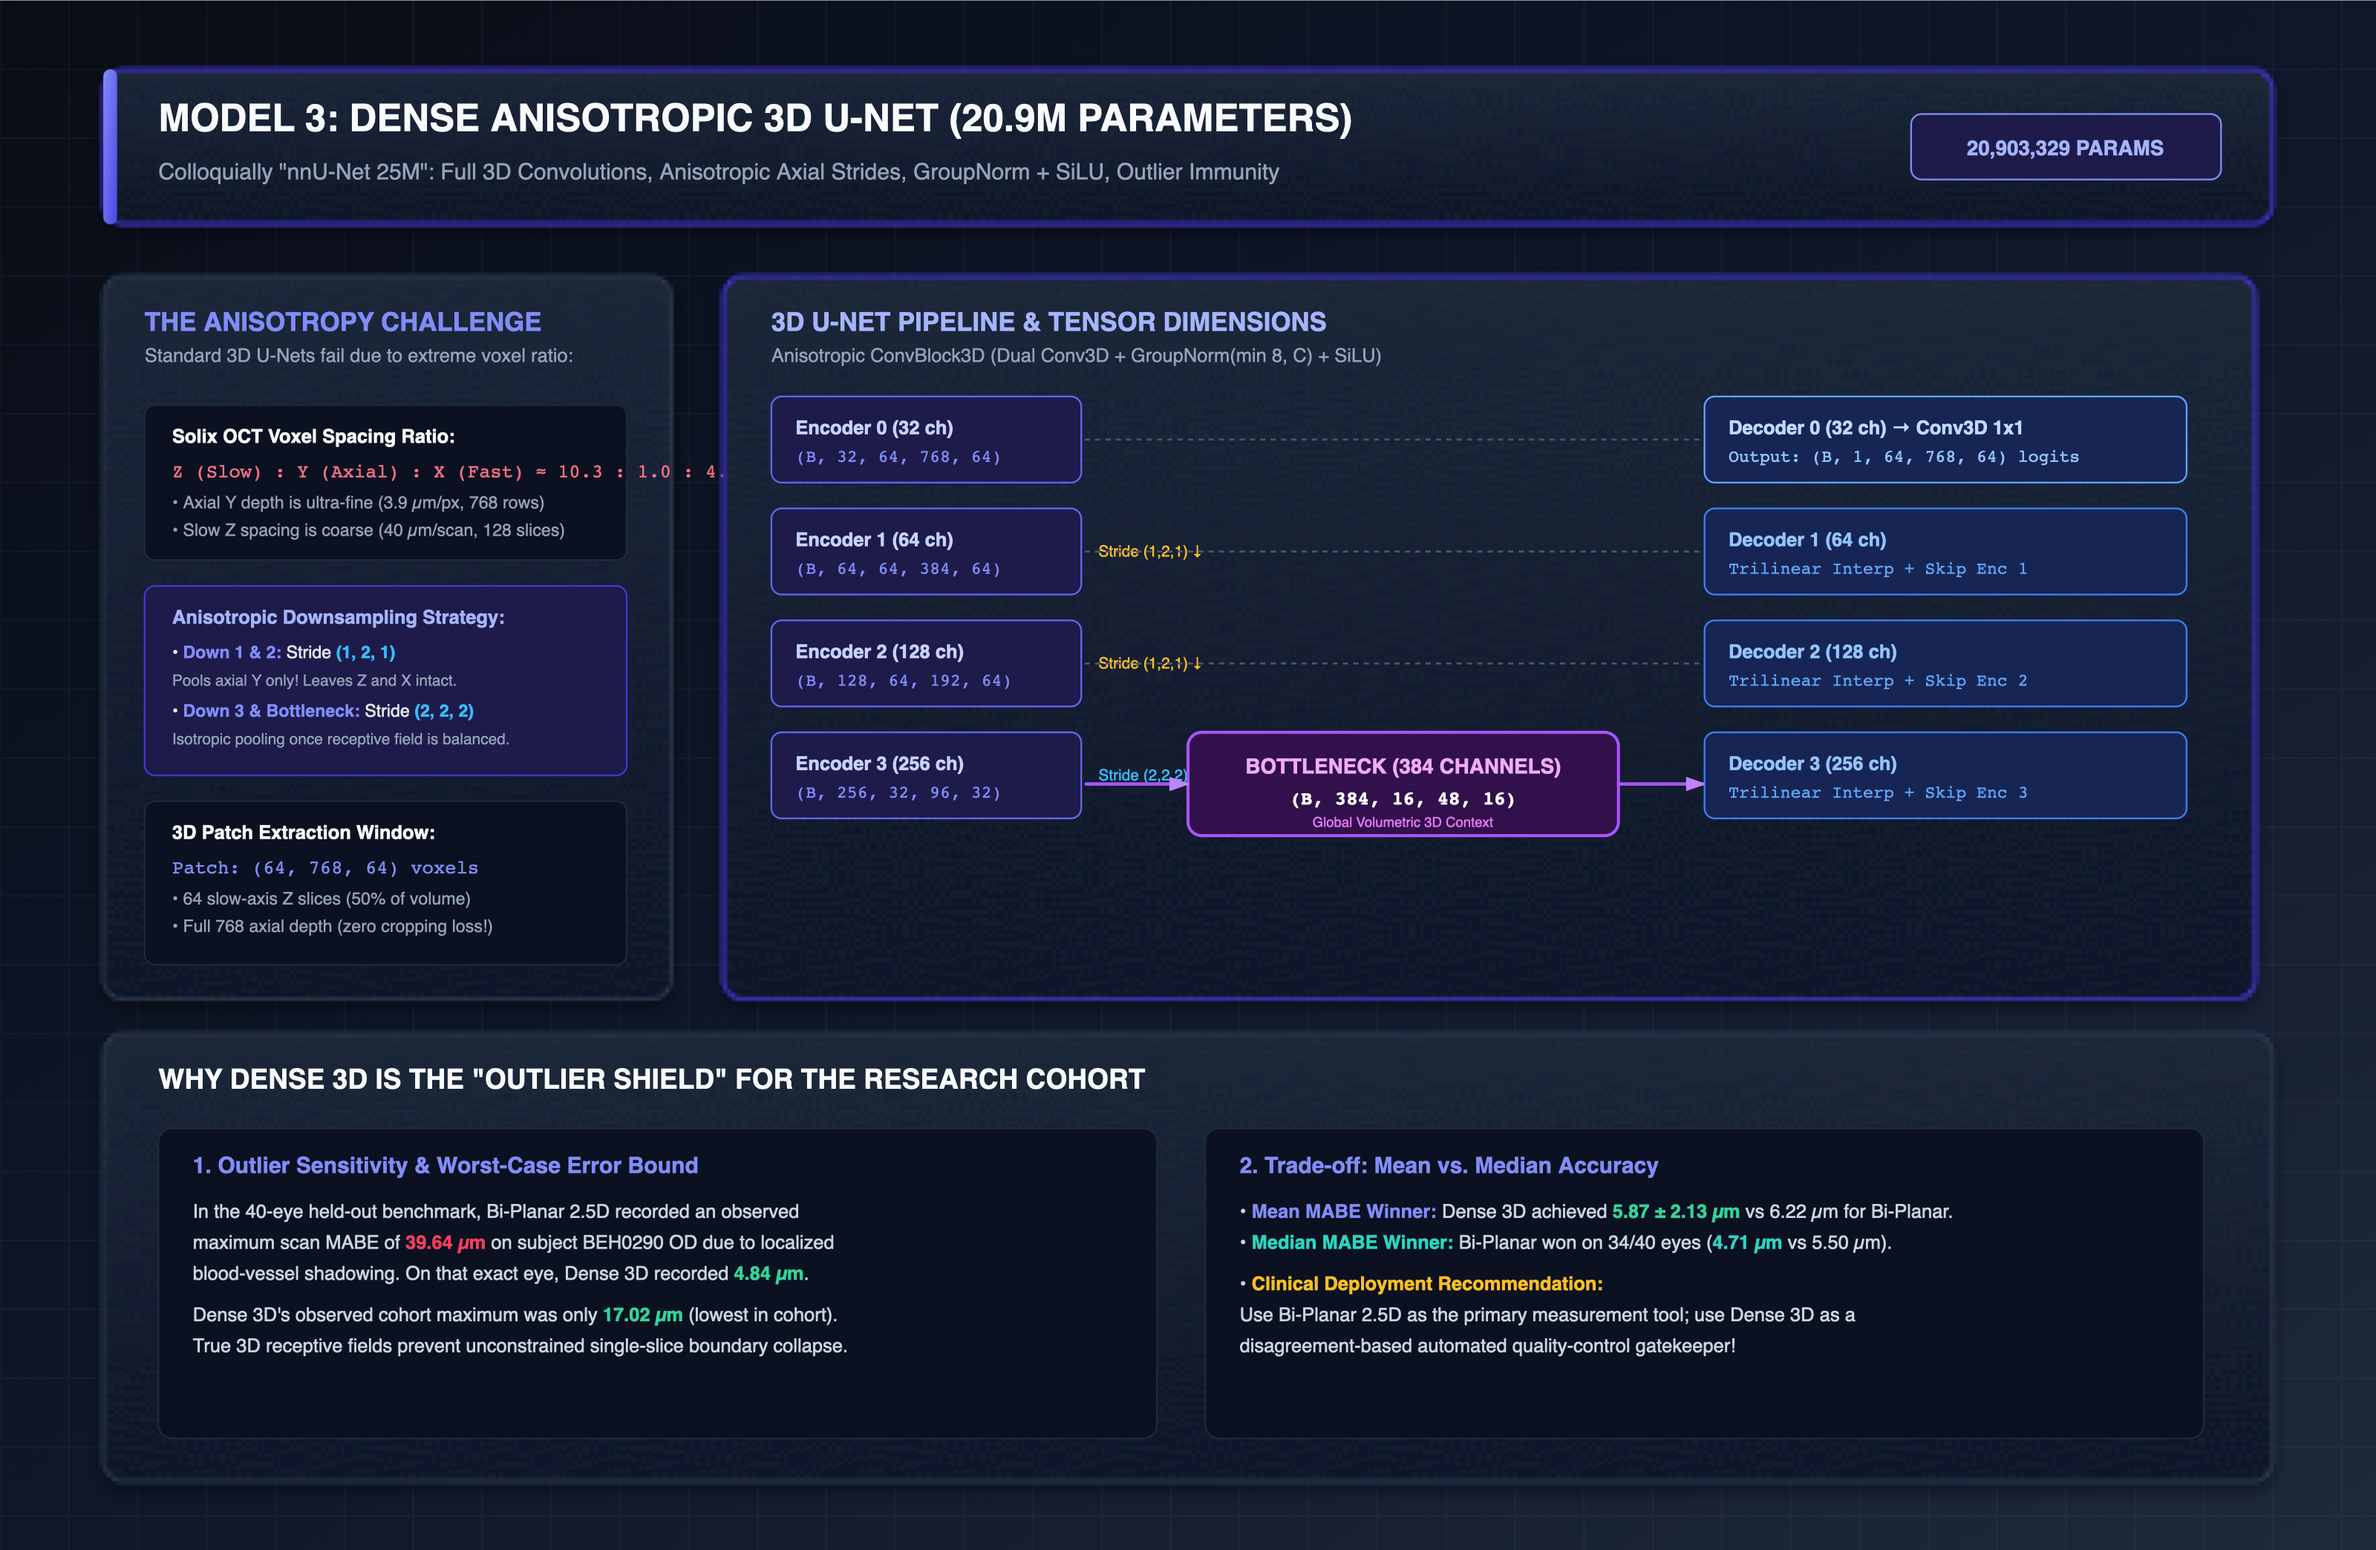
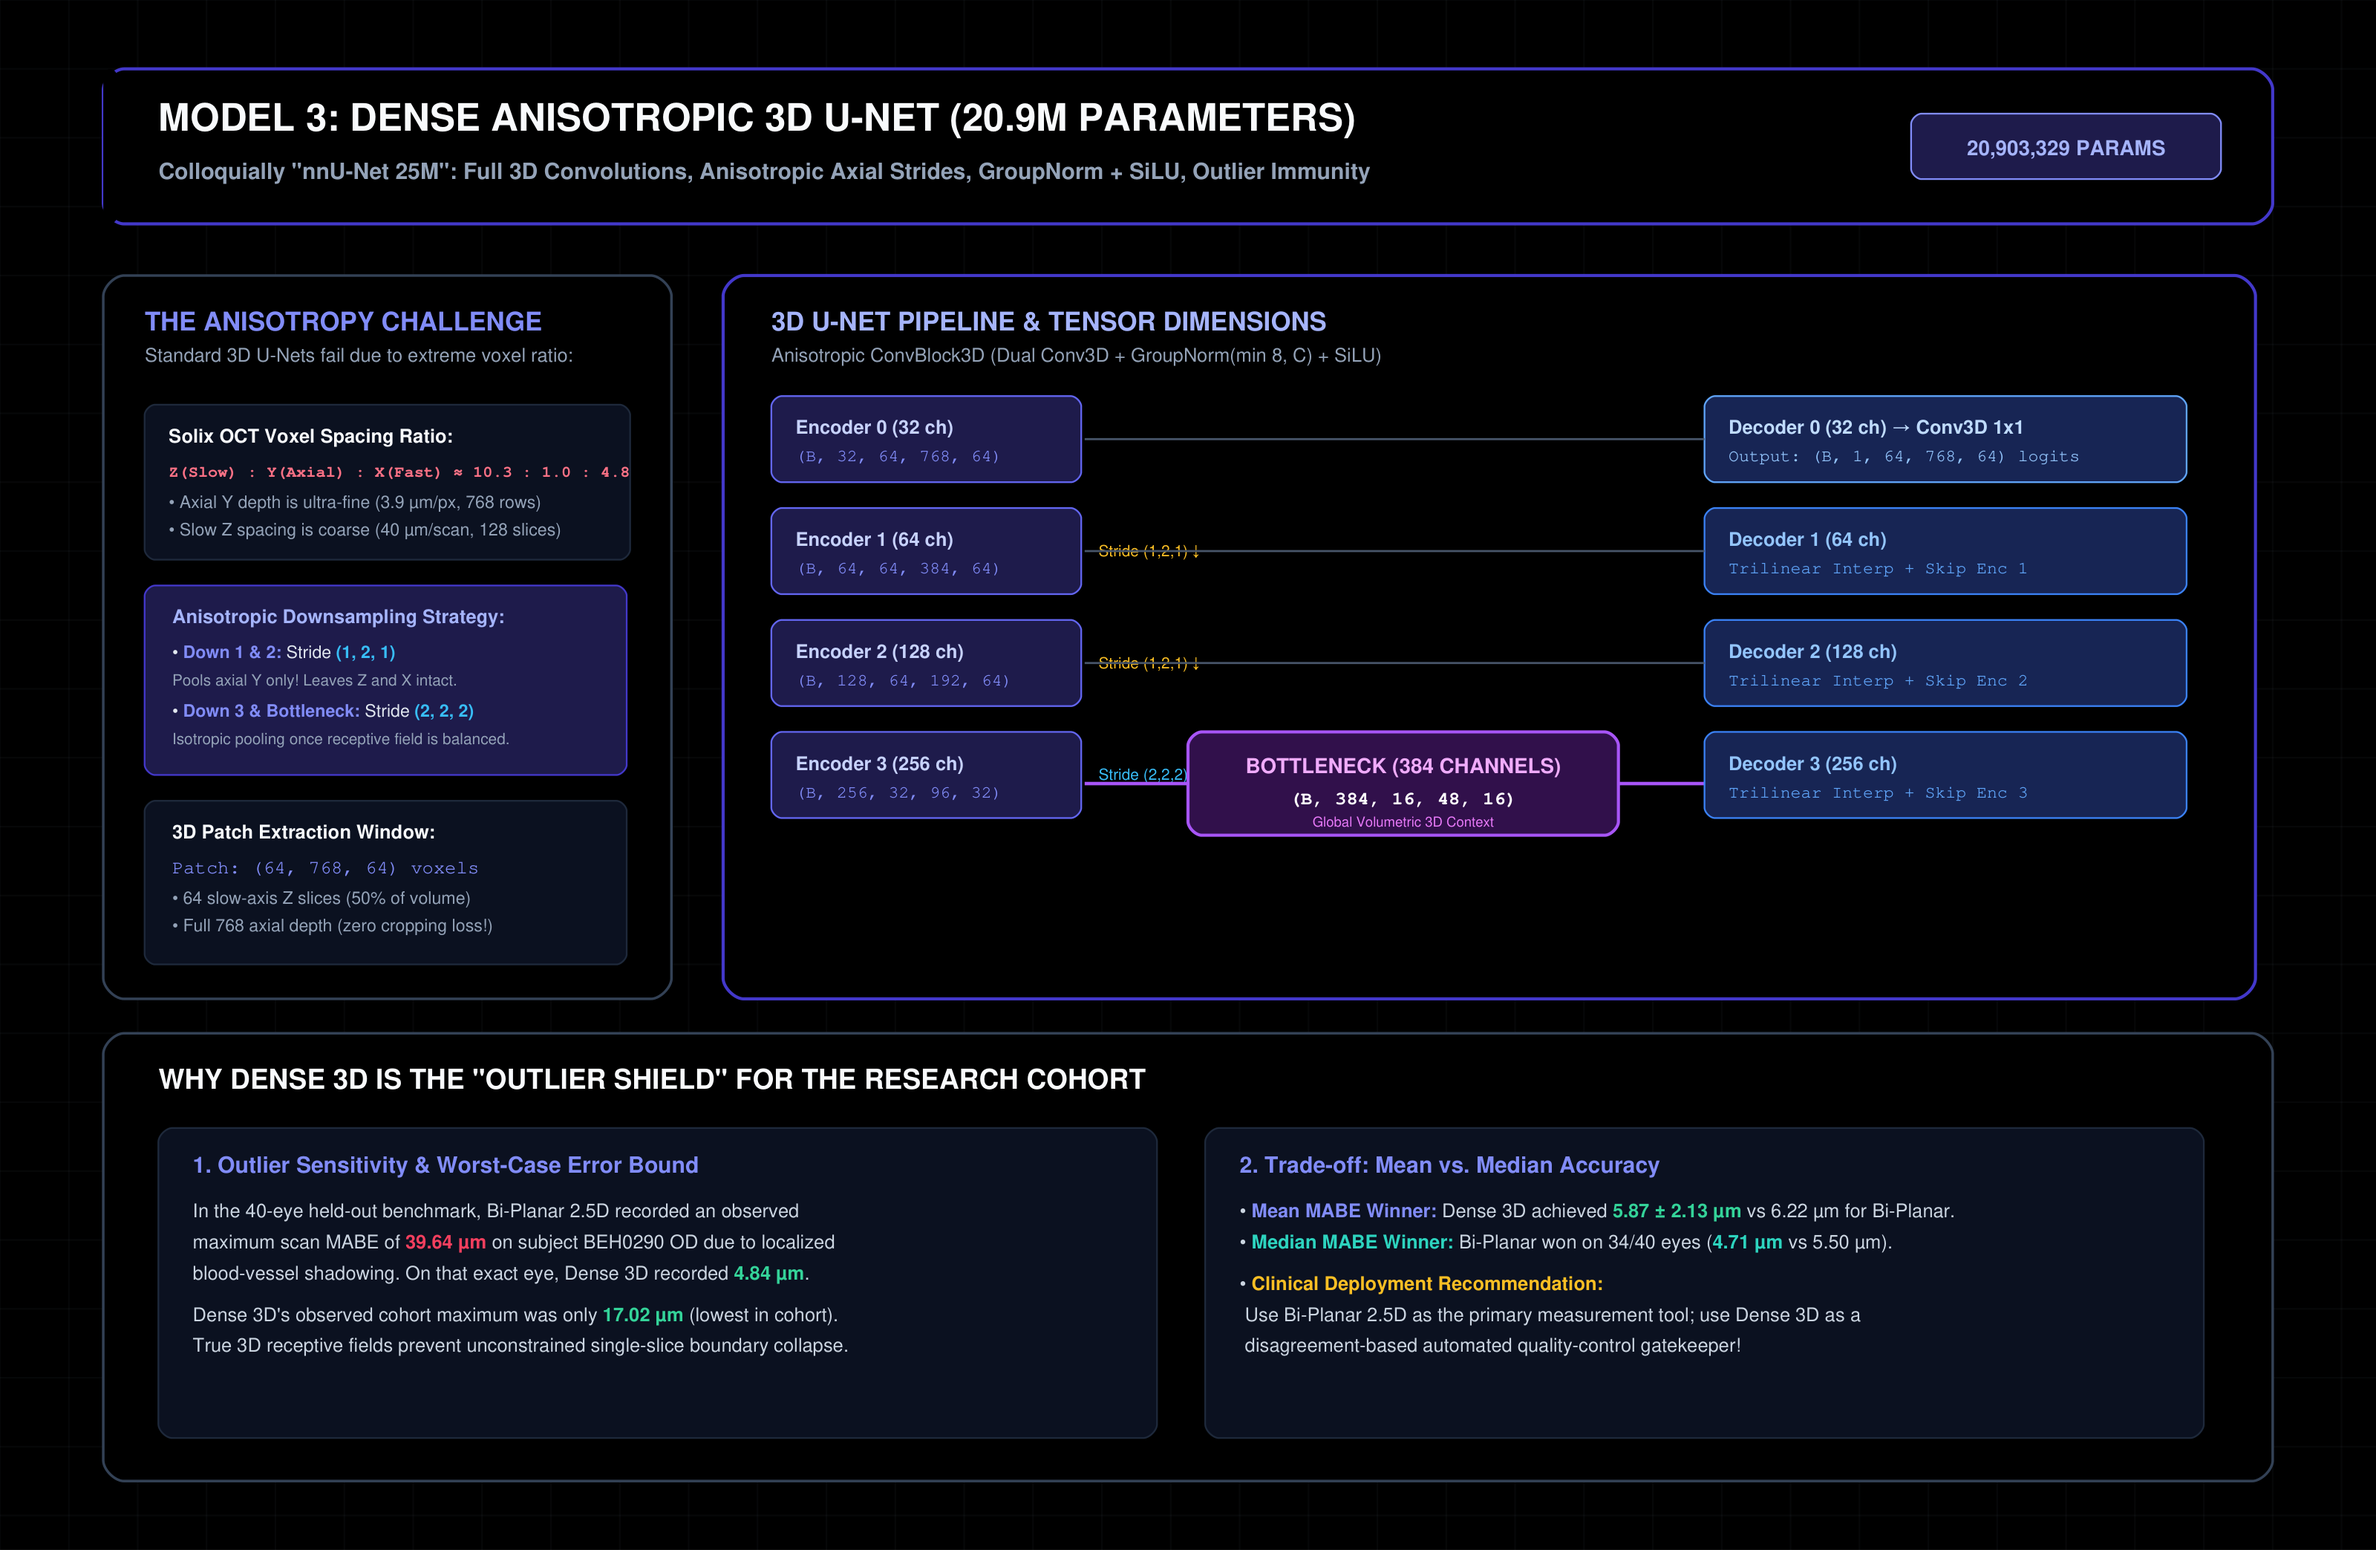
fix(png): replace qlmanage with PyMuPDF direct vector rasterization to eliminate incorrect cropping

diff --git a/ml-models/generate_model_svgs.py b/ml-models/generate_model_svgs.py
@@ -15,6 +15,7 @@ Features:
 import os
 import subprocess
 import xml.etree.ElementTree as ET
+import fitz
 from PIL import Image
 
 SVG_DIR = "/Users/nikhilmundhra/Documents/Github/Capstone/ML-Research-OCT/ml-models/svg"
@@ -543,41 +544,35 @@ def generate_single_planar_svg():
 
 
 # ==============================================================================
-# Helper to cleanly crop out any letterbox padding from PNGs
+# Vector-to-Raster High-Resolution PNG Generator via PyMuPDF (Zero Letterboxing, Zero Cropping)
 # ==============================================================================
-def render_retina_png_exact(svg_name, orig_w, orig_h, render_size=3200):
+def render_retina_png_exact(svg_name, target_width=3200):
     svg_path = os.path.join(SVG_DIR, f"{svg_name}.svg")
     final_png_path = os.path.join(SVG_DIR, f"{svg_name}.png")
     
-    # 1. Render via qlmanage
-    cmd = ["/usr/bin/qlmanage", "-t", "-s", str(render_size), "-o", SVG_DIR, svg_path]
-    subprocess.run(cmd, capture_output=True, text=True)
-    
-    temp_thumb = os.path.join(SVG_DIR, f"{svg_name}.svg.png")
-    if os.path.exists(temp_thumb):
-        im = Image.open(temp_thumb)
-        S = im.width
-        
-        # Exact mathematical aspect crop
-        target_h = int(round(S * float(orig_h) / float(orig_w)))
-        y_offset = max(0, (S - target_h) // 2)
-        
-        # Crop away the top/bottom letterbox padding
-        cropped = im.crop((0, y_offset, S, y_offset + target_h))
-        cropped.save(final_png_path, "PNG", optimize=True)
-        os.remove(temp_thumb)
-        print(f"Rendered & Cropped Retina PNG ({cropped.size[0]}x{cropped.size[1]}): {final_png_path}")
+    doc = fitz.open(svg_path)
+    page = doc[0]
+    rect = page.rect
+    scale = float(target_width) / float(rect.width)
+    mat = fitz.Matrix(scale, scale)
+    pix = page.get_pixmap(matrix=mat)
+    pix.save(final_png_path)
+    print(f"Rendered Crisp Retina PNG ({pix.width}x{pix.height}): {final_png_path}")
 
 if __name__ == "__main__":
     generate_master_taxonomy()
     generate_single_planar_svg()
     
-    # Render PNGs with exact aspect ratio cropping (0 white space!)
-    render_retina_png_exact("master_frontier_taxonomy", 2000, 1340, 3200)
-    render_retina_png_exact("01_single_planar_1.6m", 1520, 920, 3200)
-    render_retina_png_exact("02_biplanar_orthogonal_fusion", 1440, 920, 3200)
-    render_retina_png_exact("03_dense_3d_anisotropic_unet", 1380, 900, 3200)
-    render_retina_png_exact("04_anisotropic_transunet", 1440, 920, 3200)
-    render_retina_png_exact("05_canonical_stn_network", 1440, 920, 3200)
-    render_retina_png_exact("06_multi_task_boundary_heads", 1440, 920, 3200)
-    print("All SVGs and cropped Retina PNGs ready!")
+    # Render PNGs at 3200px Retina resolution directly from vector specifications
+    model_svgs = [
+        "master_frontier_taxonomy",
+        "01_single_planar_1.6m",
+        "02_biplanar_orthogonal_fusion",
+        "03_dense_3d_anisotropic_unet",
+        "04_anisotropic_transunet",
+        "05_canonical_stn_network",
+        "06_multi_task_boundary_heads",
+    ]
+    for m in model_svgs:
+        render_retina_png_exact(m, target_width=3200)
+    print("All SVGs and Retina PNGs ready!")
